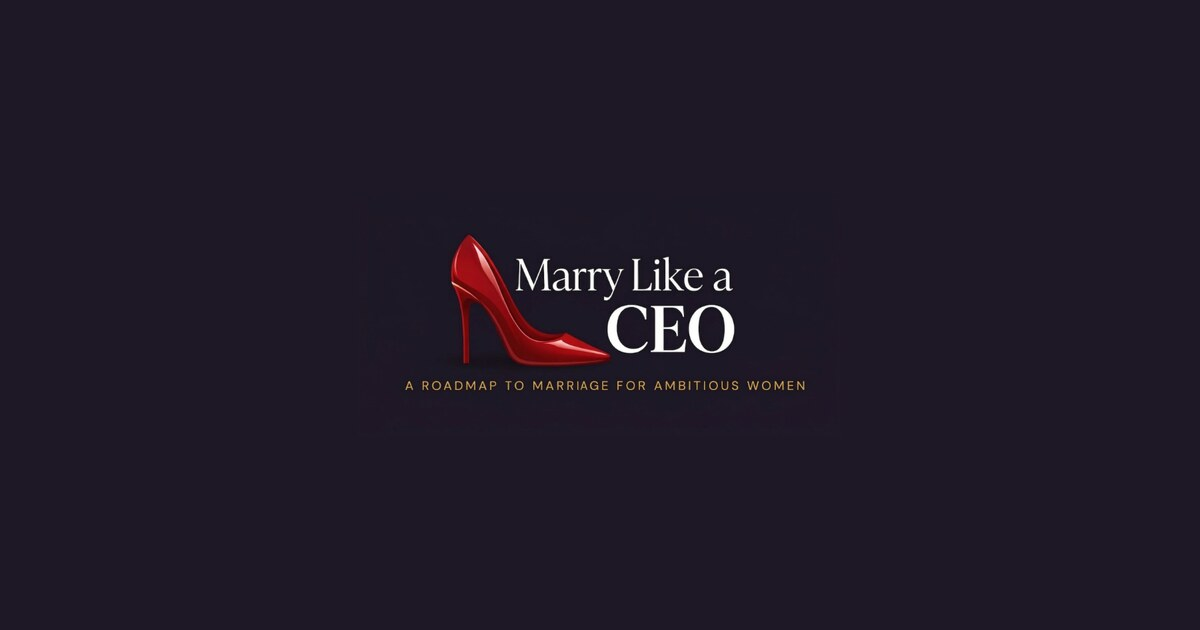
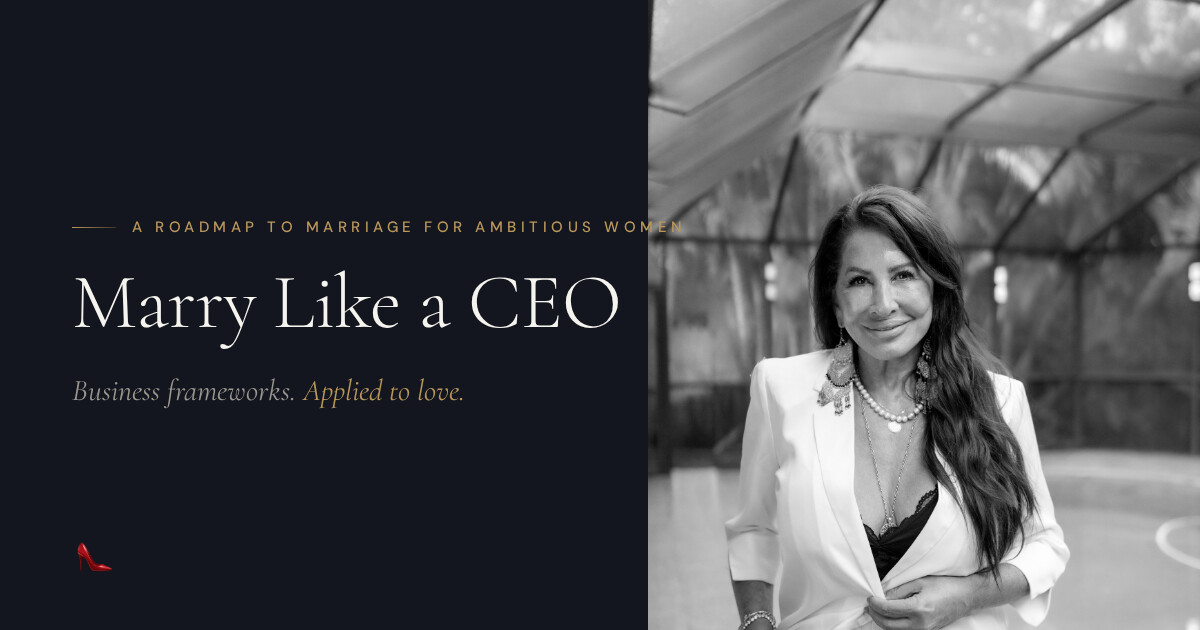
feat(seo): entity schema, canonical URL, refreshed OG image
- Add EntitySchema (JSON-LD Organization/WebSite/Person/Book graph)
  for search and AI ingestion (GEO)
- Add canonical URL to metadata
- New OG social-share image using the updated hero photography
- Fix sameAs links in EntitySchema and the community line in
  llms.txt to match Ariel's current personal social accounts
  (they still pointed at the old brand-account URLs)

diff --git a/src/components/SEO/EntitySchema.tsx b/src/components/SEO/EntitySchema.tsx
@@ -1,0 +1,77 @@
+const BASE = "https://marrylikeceo.com";
+
+/**
+ * Entity layer for search engines and AI ingestion (GEO).
+ * Descriptions use the locked-in phrases from the SEO/GEO strategy,
+ * updated to current Experience terminology.
+ */
+export const EntitySchema = () => {
+  const schema = {
+    "@context": "https://schema.org",
+    "@graph": [
+      {
+        "@type": "Organization",
+        "@id": `${BASE}/#organization`,
+        name: "Marry Like a CEO",
+        url: BASE,
+        logo: {
+          "@type": "ImageObject",
+          url: `${BASE}/images/logo-icon.png`,
+        },
+        description:
+          "Marry Like a CEO teaches marriage strategy to ambitious women who want to approach love with the same intentionality they bring to business.",
+        founder: { "@id": `${BASE}/#ariel` },
+        sameAs: [
+          "https://www.facebook.com/ariel.yankelewitz",
+          "https://www.instagram.com/arielyankelewitz/",
+          "https://www.tiktok.com/@arielyankelewitz1",
+          "https://www.linkedin.com/in/arielayankelewitz/",
+          "https://www.youtube.com/@ArielYankelewitz",
+          "https://luma.com/marrylikeceo",
+        ],
+        email: "[email redacted]",
+      },
+      {
+        "@type": "WebSite",
+        "@id": `${BASE}/#website`,
+        url: BASE,
+        name: "Marry Like a CEO",
+        publisher: { "@id": `${BASE}/#organization` },
+        inLanguage: "en",
+      },
+      {
+        "@type": "Person",
+        "@id": `${BASE}/#ariel`,
+        name: "Ariel Yankelewitz",
+        alternateName: "The Marriage Strategist",
+        description:
+          "Ariel Yankelewitz is The Marriage Strategist — a successful businesswoman who applied business frameworks to her own dating life after divorce and developed a proven methodology for finding a life partner.",
+        jobTitle: "Founder",
+        worksFor: { "@id": `${BASE}/#organization` },
+        knowsAbout: [
+          "marriage strategy",
+          "relationship coaching for ambitious women",
+          "business frameworks applied to dating",
+        ],
+      },
+      {
+        "@type": "Book",
+        "@id": `${BASE}/#book`,
+        name: "Marry Like a CEO: The Roadmap for Women Meant for Marriage",
+        author: { "@id": `${BASE}/#ariel` },
+        publisher: { "@id": `${BASE}/#organization` },
+        description:
+          "The complete Marry Like a CEO methodology in book form — business frameworks, real stories, and the exact system Ariel Yankelewitz used to find her second husband.",
+        inLanguage: "en",
+        url: `${BASE}/#book`,
+      },
+    ],
+  };
+
+  return (
+    <script
+      type="application/ld+json"
+      dangerouslySetInnerHTML={{ __html: JSON.stringify(schema) }}
+    />
+  );
+};

diff --git a/src/app/layout.tsx b/src/app/layout.tsx
@@ -5,6 +5,7 @@ import { SpeedInsights } from "@vercel/speed-insights/next";
 import { Navbar } from "@/components/layout/Navbar";
 import { Footer } from "@/components/layout/Footer";
 import { ScrollProgress } from "@/components/layout/ScrollProgress";
+import { EntitySchema } from "@/components/SEO/EntitySchema";
 import "./globals.css";
 
 const cormorantGaramond = Cormorant_Garamond({
@@ -24,6 +25,9 @@ const dmSans = DM_Sans({
 
 export const metadata: Metadata = {
   metadataBase: new URL("https://marrylikeceo.com"),
+  alternates: {
+    canonical: "/",
+  },
   title: "Marry Like a CEO - A Roadmap to Marriage for Ambitious Women",
   description:
     "A proven system that applies business strategy to finding - and choosing - the right partner. Join the waitlist for the July 2026 Experience and book launch.",
@@ -60,6 +64,7 @@ const RootLayout = ({
       className={`${cormorantGaramond.variable} ${dmSans.variable} h-full antialiased`}
     >
       <body className="min-h-full flex flex-col">
+        <EntitySchema />
         <Navbar />
         <ScrollProgress />
         <main className="flex-1">{children}</main>